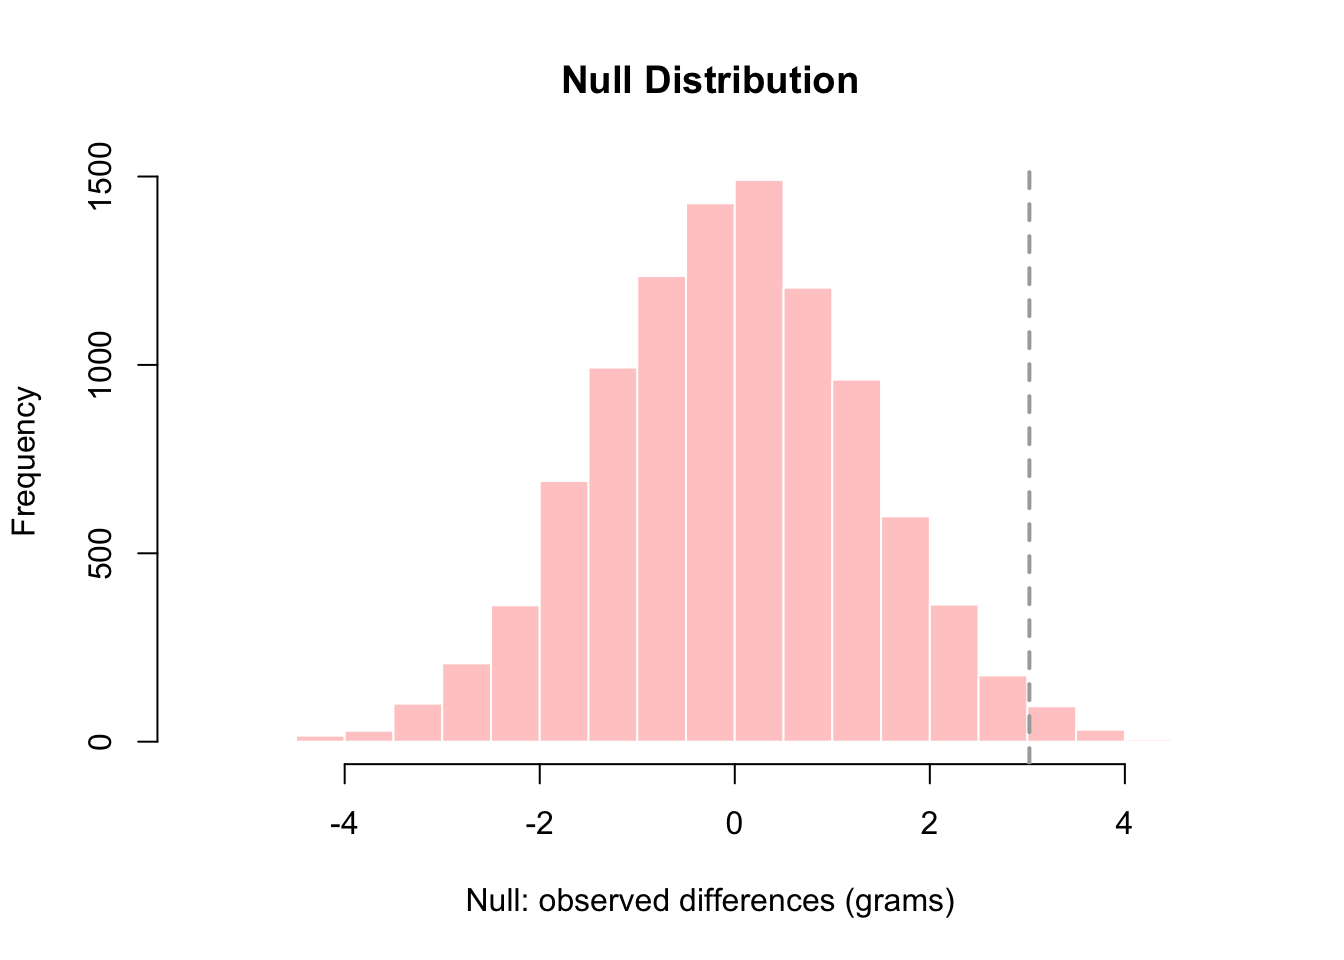
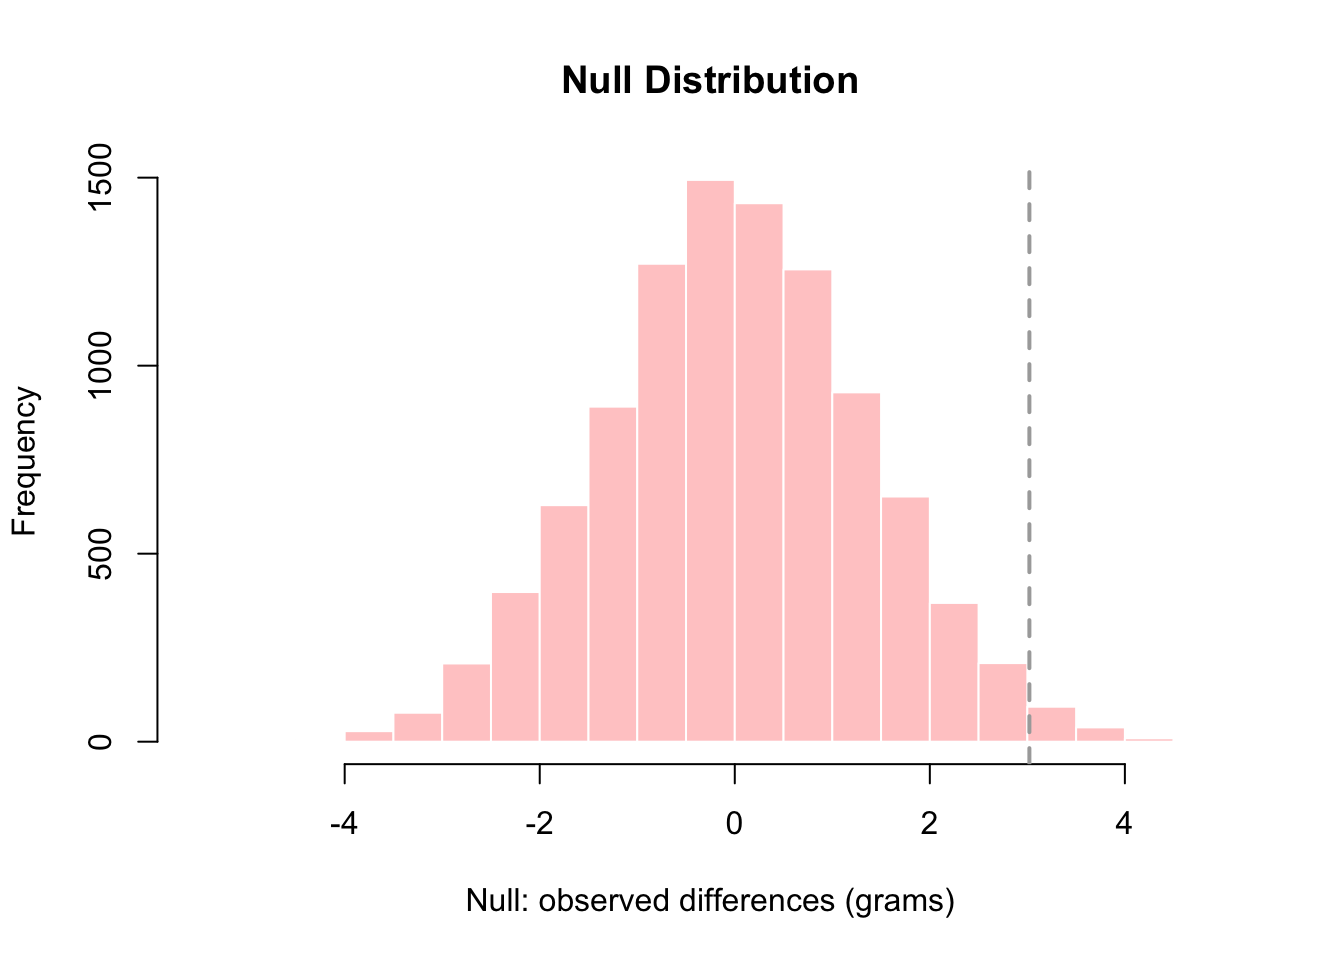
Built site for gh-pages

diff --git a/lec11.html b/lec11.html
@@ -637,17 +637,17 @@ Attaching package: 'dplyr'</code></pre>
 <span id="cb28-2"><a href="#cb28-2" aria-hidden="true" tabindex="-1"></a>control <span class="ot">&lt;-</span> <span class="fu">sample</span>(population, <span class="dv">12</span>)</span>
 <span id="cb28-3"><a href="#cb28-3" aria-hidden="true" tabindex="-1"></a><span class="fu">mean</span>(control)</span></code></pre></div><button title="Copy to Clipboard" class="code-copy-button"><i class="bi"></i></button></div>
 <div class="cell-output cell-output-stdout">
-<pre><code>[1] 23.89083</code></pre>
+<pre><code>[1] 22.9525</code></pre>
 </div>
 <div class="code-copy-outer-scaffold"><div class="sourceCode cell-code" id="cb30"><pre class="sourceCode r code-with-copy"><code class="sourceCode r"><span id="cb30-1"><a href="#cb30-1" aria-hidden="true" tabindex="-1"></a>control <span class="ot">&lt;-</span> <span class="fu">sample</span>(population, <span class="dv">12</span>)</span>
 <span id="cb30-2"><a href="#cb30-2" aria-hidden="true" tabindex="-1"></a><span class="fu">mean</span>(control)</span></code></pre></div><button title="Copy to Clipboard" class="code-copy-button"><i class="bi"></i></button></div>
 <div class="cell-output cell-output-stdout">
-<pre><code>[1] 24.77</code></pre>
+<pre><code>[1] 24.375</code></pre>
 </div>
 <div class="code-copy-outer-scaffold"><div class="sourceCode cell-code" id="cb32"><pre class="sourceCode r code-with-copy"><code class="sourceCode r"><span id="cb32-1"><a href="#cb32-1" aria-hidden="true" tabindex="-1"></a>control <span class="ot">&lt;-</span> <span class="fu">sample</span>(population, <span class="dv">12</span>)</span>
 <span id="cb32-2"><a href="#cb32-2" aria-hidden="true" tabindex="-1"></a><span class="fu">mean</span>(control)</span></code></pre></div><button title="Copy to Clipboard" class="code-copy-button"><i class="bi"></i></button></div>
 <div class="cell-output cell-output-stdout">
-<pre><code>[1] 23.36833</code></pre>
+<pre><code>[1] 23.1725</code></pre>
 </div>
 </div>
 <p>See how the average changes across samples, and that each differs from the average of the ‘total’ population. Therefore, repeating this experiment is useful, as it provides additional information about the distribution of this random variable.</p>
@@ -668,7 +668,7 @@ Attaching package: 'dplyr'</code></pre>
 <span id="cb34-4"><a href="#cb34-4" aria-hidden="true" tabindex="-1"></a>treatment <span class="ot">&lt;-</span> <span class="fu">sample</span>(population, <span class="dv">12</span>)</span>
 <span id="cb34-5"><a href="#cb34-5" aria-hidden="true" tabindex="-1"></a><span class="fu">print</span>(<span class="fu">mean</span>(treatment) <span class="sc">-</span> <span class="fu">mean</span>(control))</span></code></pre></div><button title="Copy to Clipboard" class="code-copy-button"><i class="bi"></i></button></div>
 <div class="cell-output cell-output-stdout">
-<pre><code>[1] -0.7383333</code></pre>
+<pre><code>[1] 0.3941667</code></pre>
 </div>
 <div class="code-copy-outer-scaffold"><div class="sourceCode cell-code" id="cb36"><pre class="sourceCode r code-with-copy"><code class="sourceCode r"><span id="cb36-1"><a href="#cb36-1" aria-hidden="true" tabindex="-1"></a><span class="do">## Now, let's do it 10,000 times (using a 'for-loop')</span></span>
 <span id="cb36-2"><a href="#cb36-2" aria-hidden="true" tabindex="-1"></a>n <span class="ot">&lt;-</span> <span class="dv">10000</span></span>
@@ -683,7 +683,7 @@ Attaching package: 'dplyr'</code></pre>
 <div class="cell">
 <div class="code-copy-outer-scaffold"><div class="sourceCode cell-code" id="cb37"><pre class="sourceCode r code-with-copy"><code class="sourceCode r"><span id="cb37-1"><a href="#cb37-1" aria-hidden="true" tabindex="-1"></a><span class="fu">mean</span>(null <span class="sc">&gt;=</span> obsdiff) <span class="sc">*</span> <span class="dv">100</span></span></code></pre></div><button title="Copy to Clipboard" class="code-copy-button"><i class="bi"></i></button></div>
 <div class="cell-output cell-output-stdout">
-<pre><code>[1] 1.29</code></pre>
+<pre><code>[1] 1.36</code></pre>
 </div>
 </div>
 <div class="cell">
@@ -719,16 +719,16 @@ Attaching package: 'dplyr'</code></pre>
 <div class="cell">
 <div class="code-copy-outer-scaffold"><div class="sourceCode cell-code" id="cb40"><pre class="sourceCode r code-with-copy"><code class="sourceCode r"><span id="cb40-1"><a href="#cb40-1" aria-hidden="true" tabindex="-1"></a><span class="fu">print</span>(<span class="fu">mean</span>(control))</span></code></pre></div><button title="Copy to Clipboard" class="code-copy-button"><i class="bi"></i></button></div>
 <div class="cell-output cell-output-stdout">
-<pre><code>[1] 25.39</code></pre>
+<pre><code>[1] 24.00167</code></pre>
 </div>
 <div class="code-copy-outer-scaffold"><div class="sourceCode cell-code" id="cb42"><pre class="sourceCode r code-with-copy"><code class="sourceCode r"><span id="cb42-1"><a href="#cb42-1" aria-hidden="true" tabindex="-1"></a><span class="fu">print</span>(<span class="fu">mean</span>(treatment))</span></code></pre></div><button title="Copy to Clipboard" class="code-copy-button"><i class="bi"></i></button></div>
 <div class="cell-output cell-output-stdout">
-<pre><code>[1] 23.04667</code></pre>
+<pre><code>[1] 24.4125</code></pre>
 </div>
 <div class="code-copy-outer-scaffold"><div class="sourceCode cell-code" id="cb44"><pre class="sourceCode r code-with-copy"><code class="sourceCode r"><span id="cb44-1"><a href="#cb44-1" aria-hidden="true" tabindex="-1"></a>obsdiff <span class="ot">&lt;-</span> <span class="fu">mean</span>(treatment) <span class="sc">-</span> <span class="fu">mean</span>(control)</span>
 <span id="cb44-2"><a href="#cb44-2" aria-hidden="true" tabindex="-1"></a><span class="fu">print</span>(obsdiff)</span></code></pre></div><button title="Copy to Clipboard" class="code-copy-button"><i class="bi"></i></button></div>
 <div class="cell-output cell-output-stdout">
-<pre><code>[1] -2.343333</code></pre>
+<pre><code>[1] 0.4108333</code></pre>
 </div>
 <div class="code-copy-outer-scaffold"><div class="sourceCode cell-code" id="cb46"><pre class="sourceCode r code-with-copy"><code class="sourceCode r"><span id="cb46-1"><a href="#cb46-1" aria-hidden="true" tabindex="-1"></a>part1<span class="ot">&lt;-</span>(<span class="fu">sd</span>(control)<span class="sc">^</span><span class="dv">2</span>)<span class="sc">/</span><span class="fu">length</span>(control)</span>
 <span id="cb46-2"><a href="#cb46-2" aria-hidden="true" tabindex="-1"></a>part2<span class="ot">&lt;-</span>(<span class="fu">sd</span>(treatment)<span class="sc">^</span><span class="dv">2</span>)<span class="sc">/</span><span class="fu">length</span>(treatment)</span>
@@ -736,19 +736,19 @@ Attaching package: 'dplyr'</code></pre>
 <span id="cb46-4"><a href="#cb46-4" aria-hidden="true" tabindex="-1"></a>tval<span class="ot">&lt;-</span>obsdiff<span class="sc">/</span>se</span>
 <span id="cb46-5"><a href="#cb46-5" aria-hidden="true" tabindex="-1"></a>tval</span></code></pre></div><button title="Copy to Clipboard" class="code-copy-button"><i class="bi"></i></button></div>
 <div class="cell-output cell-output-stdout">
-<pre><code>[1] -1.597852</code></pre>
+<pre><code>[1] 0.2698879</code></pre>
 </div>
 <div class="code-copy-outer-scaffold"><div class="sourceCode cell-code" id="cb48"><pre class="sourceCode r code-with-copy"><code class="sourceCode r"><span id="cb48-1"><a href="#cb48-1" aria-hidden="true" tabindex="-1"></a>df<span class="ot">&lt;-</span>((part1<span class="sc">+</span>part2)<span class="sc">^</span><span class="dv">2</span>)<span class="sc">/</span>(part1<span class="sc">^</span><span class="dv">2</span><span class="sc">/</span>(<span class="fu">length</span>(control)<span class="sc">-</span><span class="dv">1</span>)<span class="sc">+</span>part2<span class="sc">^</span><span class="dv">2</span><span class="sc">/</span>(<span class="fu">length</span>(treatment)<span class="sc">-</span><span class="dv">1</span>))</span>
 <span id="cb48-2"><a href="#cb48-2" aria-hidden="true" tabindex="-1"></a>df</span></code></pre></div><button title="Copy to Clipboard" class="code-copy-button"><i class="bi"></i></button></div>
 <div class="cell-output cell-output-stdout">
-<pre><code>[1] 19.8991</code></pre>
+<pre><code>[1] 20.18207</code></pre>
 </div>
 </div>
 <p>Let’s compute the p-value</p>
 <div class="cell">
 <div class="code-copy-outer-scaffold"><div class="sourceCode cell-code" id="cb50"><pre class="sourceCode r code-with-copy"><code class="sourceCode r"><span id="cb50-1"><a href="#cb50-1" aria-hidden="true" tabindex="-1"></a><span class="dv">2</span><span class="sc">*</span><span class="fu">pt</span>(tval,df)</span></code></pre></div><button title="Copy to Clipboard" class="code-copy-button"><i class="bi"></i></button></div>
 <div class="cell-output cell-output-stdout">
-<pre><code>[1] 0.1258346</code></pre>
+<pre><code>[1] 1.210013</code></pre>
 </div>
 </div>
 <p>We can compare our calculations:</p>
@@ -759,13 +759,13 @@ Attaching package: 'dplyr'</code></pre>
     Welch Two Sample t-test
 
 data:  control and treatment
-t = 1.5979, df = 19.899, p-value = 0.1258
+t = -0.26989, df = 20.182, p-value = 0.79
 alternative hypothesis: true difference in means is not equal to 0
 95 percent confidence interval:
- -0.7168363  5.4035030
+ -3.584329  2.762662
 sample estimates:
 mean of x mean of y 
- 25.39000  23.04667 </code></pre>
+ 24.00167  24.41250 </code></pre>
 </div>
 </div>
 <p>The data is compatible with the hypothesis. We do not reject the null hypothesis of equality in means.</p>

diff --git a/lec8.html b/lec8.html
@@ -540,22 +540,22 @@ window.Quarto = {
 <div class="code-copy-outer-scaffold"><div class="sourceCode cell-code" id="cb1"><pre class="sourceCode r code-with-copy"><code class="sourceCode r"><span id="cb1-1"><a href="#cb1-1" aria-hidden="true" tabindex="-1"></a>x<span class="ot">&lt;-</span><span class="fu">rnorm</span>(<span class="dv">10</span>,<span class="dv">0</span>,<span class="dv">1</span>)</span>
 <span id="cb1-2"><a href="#cb1-2" aria-hidden="true" tabindex="-1"></a><span class="fu">mean</span>(x)</span></code></pre></div><button title="Copy to Clipboard" class="code-copy-button"><i class="bi"></i></button></div>
 <div class="cell-output cell-output-stdout">
-<pre><code>[1] 0.2402792</code></pre>
+<pre><code>[1] 0.04063036</code></pre>
 </div>
 <div class="code-copy-outer-scaffold"><div class="sourceCode cell-code" id="cb3"><pre class="sourceCode r code-with-copy"><code class="sourceCode r"><span id="cb3-1"><a href="#cb3-1" aria-hidden="true" tabindex="-1"></a>x<span class="ot">&lt;-</span><span class="fu">rnorm</span>(<span class="dv">100</span>,<span class="dv">0</span>,<span class="dv">1</span>)</span>
 <span id="cb3-2"><a href="#cb3-2" aria-hidden="true" tabindex="-1"></a><span class="fu">mean</span>(x)</span></code></pre></div><button title="Copy to Clipboard" class="code-copy-button"><i class="bi"></i></button></div>
 <div class="cell-output cell-output-stdout">
-<pre><code>[1] 0.02777156</code></pre>
+<pre><code>[1] 0.0299601</code></pre>
 </div>
 <div class="code-copy-outer-scaffold"><div class="sourceCode cell-code" id="cb5"><pre class="sourceCode r code-with-copy"><code class="sourceCode r"><span id="cb5-1"><a href="#cb5-1" aria-hidden="true" tabindex="-1"></a>x<span class="ot">&lt;-</span><span class="fu">rnorm</span>(<span class="dv">1000</span>,<span class="dv">0</span>,<span class="dv">1</span>)</span>
 <span id="cb5-2"><a href="#cb5-2" aria-hidden="true" tabindex="-1"></a><span class="fu">mean</span>(x)</span></code></pre></div><button title="Copy to Clipboard" class="code-copy-button"><i class="bi"></i></button></div>
 <div class="cell-output cell-output-stdout">
-<pre><code>[1] 0.03206939</code></pre>
+<pre><code>[1] 0.02019941</code></pre>
 </div>
 <div class="code-copy-outer-scaffold"><div class="sourceCode cell-code" id="cb7"><pre class="sourceCode r code-with-copy"><code class="sourceCode r"><span id="cb7-1"><a href="#cb7-1" aria-hidden="true" tabindex="-1"></a>x<span class="ot">&lt;-</span><span class="fu">rnorm</span>(<span class="dv">10000</span>,<span class="dv">0</span>,<span class="dv">1</span>)</span>
 <span id="cb7-2"><a href="#cb7-2" aria-hidden="true" tabindex="-1"></a><span class="fu">mean</span>(x)</span></code></pre></div><button title="Copy to Clipboard" class="code-copy-button"><i class="bi"></i></button></div>
 <div class="cell-output cell-output-stdout">
-<pre><code>[1] -0.0004505544</code></pre>
+<pre><code>[1] -0.00168988</code></pre>
 </div>
 </div>
 <p>Clearly, different samples will give us different sample means. How much do we expect them to vary? We can compute the sample standard deviation of the sample mean (standard error) as follows:</p>
@@ -566,7 +566,7 @@ window.Quarto = {
 <span id="cb9-4"><a href="#cb9-4" aria-hidden="true" tabindex="-1"></a>}</span>
 <span id="cb9-5"><a href="#cb9-5" aria-hidden="true" tabindex="-1"></a><span class="fu">sqrt</span>(<span class="fu">var</span>(vector_means))</span></code></pre></div><button title="Copy to Clipboard" class="code-copy-button"><i class="bi"></i></button></div>
 <div class="cell-output cell-output-stdout">
-<pre><code>[1] 0.3099386</code></pre>
+<pre><code>[1] 0.3191816</code></pre>
 </div>
 <div class="code-copy-outer-scaffold"><div class="sourceCode cell-code" id="cb11"><pre class="sourceCode r code-with-copy"><code class="sourceCode r"><span id="cb11-1"><a href="#cb11-1" aria-hidden="true" tabindex="-1"></a><span class="fu">hist</span>(vector_means)</span></code></pre></div><button title="Copy to Clipboard" class="code-copy-button"><i class="bi"></i></button></div>
 <div class="cell-output-display">
@@ -592,7 +592,7 @@ window.Quarto = {
 <span id="cb14-4"><a href="#cb14-4" aria-hidden="true" tabindex="-1"></a>}</span>
 <span id="cb14-5"><a href="#cb14-5" aria-hidden="true" tabindex="-1"></a><span class="fu">sqrt</span>(<span class="fu">var</span>(vector_means))</span></code></pre></div><button title="Copy to Clipboard" class="code-copy-button"><i class="bi"></i></button></div>
 <div class="cell-output cell-output-stdout">
-<pre><code>[1] 0.3566331</code></pre>
+<pre><code>[1] 0.3359057</code></pre>
 </div>
 <div class="code-copy-outer-scaffold"><div class="sourceCode cell-code" id="cb16"><pre class="sourceCode r code-with-copy"><code class="sourceCode r"><span id="cb16-1"><a href="#cb16-1" aria-hidden="true" tabindex="-1"></a><span class="fu">hist</span>(vector_means)</span></code></pre></div><button title="Copy to Clipboard" class="code-copy-button"><i class="bi"></i></button></div>
 <div class="cell-output-display">

diff --git a/lec5.html b/lec5.html
@@ -577,14 +577,14 @@ Suppose we want to simulate a sequence of 15 fair tosses using R. To get the out
 <div class="cell">
 <div class="code-copy-outer-scaffold"><div class="sourceCode cell-code" id="cb3"><pre class="sourceCode r code-with-copy"><code class="sourceCode r"><span id="cb3-1"><a href="#cb3-1" aria-hidden="true" tabindex="-1"></a><span class="fu">rbinom</span>(<span class="dv">15</span>, <span class="at">prob =</span> <span class="fl">0.5</span>, <span class="at">size =</span> <span class="dv">1</span>)</span></code></pre></div><button title="Copy to Clipboard" class="code-copy-button"><i class="bi"></i></button></div>
 <div class="cell-output cell-output-stdout">
-<pre><code> [1] 0 1 1 1 0 0 1 0 0 0 0 1 0 1 0</code></pre>
+<pre><code> [1] 0 0 1 0 0 1 0 0 1 0 1 1 1 1 0</code></pre>
 </div>
 </div>
 <p>Now observe the outcome when using a biased coin that lands heads 70% of the time:</p>
 <div class="cell">
 <div class="code-copy-outer-scaffold"><div class="sourceCode cell-code" id="cb5"><pre class="sourceCode r code-with-copy"><code class="sourceCode r"><span id="cb5-1"><a href="#cb5-1" aria-hidden="true" tabindex="-1"></a><span class="fu">rbinom</span>(<span class="dv">15</span>, <span class="at">prob =</span> <span class="fl">0.7</span>, <span class="at">size =</span> <span class="dv">1</span>)</span></code></pre></div><button title="Copy to Clipboard" class="code-copy-button"><i class="bi"></i></button></div>
 <div class="cell-output cell-output-stdout">
-<pre><code> [1] 1 1 1 1 1 0 0 1 1 1 0 0 1 1 1</code></pre>
+<pre><code> [1] 1 0 0 0 1 1 1 0 0 1 1 0 1 0 0</code></pre>
 </div>
 </div>
 <p><em>Question.</em> Note that when you call the function above several times, you get different outcomes. Why is that?</p>
@@ -597,7 +597,7 @@ Suppose we want to simulate a sequence of 15 fair tosses using R. To get the out
 <div class="cell">
 <div class="code-copy-outer-scaffold"><div class="sourceCode cell-code" id="cb7"><pre class="sourceCode r code-with-copy"><code class="sourceCode r"><span id="cb7-1"><a href="#cb7-1" aria-hidden="true" tabindex="-1"></a><span class="fu">rbinom</span>(<span class="dv">1</span>, <span class="at">prob =</span> <span class="fl">0.7</span>, <span class="at">size =</span> <span class="dv">15</span>)</span></code></pre></div><button title="Copy to Clipboard" class="code-copy-button"><i class="bi"></i></button></div>
 <div class="cell-output cell-output-stdout">
-<pre><code>[1] 10</code></pre>
+<pre><code>[1] 12</code></pre>
 </div>
 </div>
 <p>The sum of multiple independent (or exchangeable) Bernoulli trials is called the <strong>Binomial distribution</strong> (in the example above, how many heads in 15 flips). That is, the number of successes in 15 Bernoulli trials with a probability of success of 0.7 is called a <strong>binomial</strong> random variable, or a random variable that follows the B(15, 0.7) distribution. We can generate binomial samples in R as follows:</p>

diff --git a/lec6.html b/lec6.html
@@ -542,14 +542,14 @@ Suppose we want to simulate a sequence of 15 fair tosses using R. To get the out
 <div class="cell">
 <div class="code-copy-outer-scaffold"><div class="sourceCode cell-code" id="cb3"><pre class="sourceCode r code-with-copy"><code class="sourceCode r"><span id="cb3-1"><a href="#cb3-1" aria-hidden="true" tabindex="-1"></a><span class="fu">rbinom</span>(<span class="dv">15</span>, <span class="at">prob =</span> <span class="fl">0.5</span>, <span class="at">size =</span> <span class="dv">1</span>)</span></code></pre></div><button title="Copy to Clipboard" class="code-copy-button"><i class="bi"></i></button></div>
 <div class="cell-output cell-output-stdout">
-<pre><code> [1] 1 1 1 0 1 1 1 1 0 1 0 1 1 1 1</code></pre>
+<pre><code> [1] 1 0 0 0 1 0 0 1 0 1 1 1 0 0 0</code></pre>
 </div>
 </div>
 <p>Now observe the outcome when using a biased coin that lands heads 70% of the time:</p>
 <div class="cell">
 <div class="code-copy-outer-scaffold"><div class="sourceCode cell-code" id="cb5"><pre class="sourceCode r code-with-copy"><code class="sourceCode r"><span id="cb5-1"><a href="#cb5-1" aria-hidden="true" tabindex="-1"></a><span class="fu">rbinom</span>(<span class="dv">15</span>, <span class="at">prob =</span> <span class="fl">0.7</span>, <span class="at">size =</span> <span class="dv">1</span>)</span></code></pre></div><button title="Copy to Clipboard" class="code-copy-button"><i class="bi"></i></button></div>
 <div class="cell-output cell-output-stdout">
-<pre><code> [1] 1 1 1 0 1 1 0 1 0 1 1 0 1 1 1</code></pre>
+<pre><code> [1] 0 1 0 1 0 1 1 0 1 1 1 1 1 1 1</code></pre>
 </div>
 </div>
 <p><em>Question.</em> Note that when you call the function above several times, you get different outcomes. Why is that?</p>
@@ -562,7 +562,7 @@ Suppose we want to simulate a sequence of 15 fair tosses using R. To get the out
 <div class="cell">
 <div class="code-copy-outer-scaffold"><div class="sourceCode cell-code" id="cb7"><pre class="sourceCode r code-with-copy"><code class="sourceCode r"><span id="cb7-1"><a href="#cb7-1" aria-hidden="true" tabindex="-1"></a><span class="fu">rbinom</span>(<span class="dv">1</span>, <span class="at">prob =</span> <span class="fl">0.7</span>, <span class="at">size =</span> <span class="dv">15</span>)</span></code></pre></div><button title="Copy to Clipboard" class="code-copy-button"><i class="bi"></i></button></div>
 <div class="cell-output cell-output-stdout">
-<pre><code>[1] 9</code></pre>
+<pre><code>[1] 13</code></pre>
 </div>
 </div>
 <p>The sum of multiple independent (or exchangeable) Bernoulli trials is called the <strong>Binomial distribution</strong> (in the example above, how many heads in 15 flips). That is, the number of successes in 15 Bernoulli trials with a probability of success of 0.7 is called a <strong>binomial</strong> random variable, or a random variable that follows the B(15, 0.7) distribution. We can generate binomial samples in R as follows:</p>

diff --git a/Week2_section.html b/Week2_section.html
@@ -642,11 +642,11 @@ window.Quarto = {
 <div class="code-copy-outer-scaffold"><div class="sourceCode cell-code" id="cb16"><pre class="sourceCode r code-with-copy"><code class="sourceCode r"><span id="cb16-1"><a href="#cb16-1" aria-hidden="true" tabindex="-1"></a><span class="co"># Scenario 1:</span></span>
 <span id="cb16-2"><a href="#cb16-2" aria-hidden="true" tabindex="-1"></a><span class="fu">sample</span>(<span class="fu">c</span>(<span class="dv">0</span>, <span class="dv">1</span>), <span class="at">size =</span> <span class="dv">10</span>, <span class="at">replace =</span> <span class="cn">TRUE</span>)</span></code></pre></div><button title="Copy to Clipboard" class="code-copy-button"><i class="bi"></i></button></div>
 <div class="cell-output cell-output-stdout">
-<pre><code> [1] 1 1 0 1 1 1 0 1 1 1</code></pre>
+<pre><code> [1] 1 1 0 0 1 1 1 0 0 0</code></pre>
 </div>
 <div class="code-copy-outer-scaffold"><div class="sourceCode cell-code" id="cb18"><pre class="sourceCode r code-with-copy"><code class="sourceCode r"><span id="cb18-1"><a href="#cb18-1" aria-hidden="true" tabindex="-1"></a><span class="fu">sample</span>(<span class="fu">c</span>(<span class="dv">0</span>, <span class="dv">1</span>), <span class="at">size =</span> <span class="dv">10</span>, <span class="at">replace =</span> <span class="cn">TRUE</span>)</span></code></pre></div><button title="Copy to Clipboard" class="code-copy-button"><i class="bi"></i></button></div>
 <div class="cell-output cell-output-stdout">
-<pre><code> [1] 1 1 1 0 1 1 1 1 1 0</code></pre>
+<pre><code> [1] 1 1 0 1 1 1 0 1 1 1</code></pre>
 </div>
 <div class="code-copy-outer-scaffold"><div class="sourceCode cell-code" id="cb20"><pre class="sourceCode r code-with-copy"><code class="sourceCode r"><span id="cb20-1"><a href="#cb20-1" aria-hidden="true" tabindex="-1"></a><span class="co"># Scenario 2:</span></span>
 <span id="cb20-2"><a href="#cb20-2" aria-hidden="true" tabindex="-1"></a><span class="fu">set.seed</span>(<span class="dv">123</span>)</span>

diff --git a/Week3_section.html b/Week3_section.html
@@ -532,11 +532,11 @@ window.Quarto = {
 <div class="code-copy-outer-scaffold"><div class="sourceCode cell-code" id="cb4"><pre class="sourceCode r code-with-copy"><code class="sourceCode r"><span id="cb4-1"><a href="#cb4-1" aria-hidden="true" tabindex="-1"></a><span class="co"># Scenario 1:</span></span>
 <span id="cb4-2"><a href="#cb4-2" aria-hidden="true" tabindex="-1"></a><span class="fu">sample</span>(<span class="fu">c</span>(<span class="dv">1</span>, <span class="dv">0</span>), <span class="at">size =</span> <span class="dv">10</span>, <span class="at">replace =</span> <span class="cn">TRUE</span>)</span></code></pre></div><button title="Copy to Clipboard" class="code-copy-button"><i class="bi"></i></button></div>
 <div class="cell-output cell-output-stdout">
-<pre><code> [1] 0 0 0 0 1 1 1 0 0 1</code></pre>
+<pre><code> [1] 0 1 1 0 0 1 1 0 0 1</code></pre>
 </div>
 <div class="code-copy-outer-scaffold"><div class="sourceCode cell-code" id="cb6"><pre class="sourceCode r code-with-copy"><code class="sourceCode r"><span id="cb6-1"><a href="#cb6-1" aria-hidden="true" tabindex="-1"></a><span class="fu">sample</span>(<span class="fu">c</span>(<span class="dv">1</span>, <span class="dv">0</span>), <span class="at">size =</span> <span class="dv">10</span>, <span class="at">replace =</span> <span class="cn">TRUE</span>)</span></code></pre></div><button title="Copy to Clipboard" class="code-copy-button"><i class="bi"></i></button></div>
 <div class="cell-output cell-output-stdout">
-<pre><code> [1] 0 1 1 1 0 0 0 0 1 1</code></pre>
+<pre><code> [1] 1 0 0 0 1 1 0 1 1 0</code></pre>
 </div>
 <div class="code-copy-outer-scaffold"><div class="sourceCode cell-code" id="cb8"><pre class="sourceCode r code-with-copy"><code class="sourceCode r"><span id="cb8-1"><a href="#cb8-1" aria-hidden="true" tabindex="-1"></a><span class="co"># Scenario 2:</span></span>
 <span id="cb8-2"><a href="#cb8-2" aria-hidden="true" tabindex="-1"></a><span class="fu">set.seed</span>(<span class="dv">123</span>)</span>

diff --git a/lec4.html b/lec4.html
@@ -506,8 +506,8 @@ window.Quarto = {
 </div>
 <div class="code-copy-outer-scaffold"><div class="sourceCode cell-code" id="cb4"><pre class="sourceCode r code-with-copy"><code class="sourceCode r"><span id="cb4-1"><a href="#cb4-1" aria-hidden="true" tabindex="-1"></a><span class="fu">sample</span>(x,<span class="dv">10</span>)</span></code></pre></div><button title="Copy to Clipboard" class="code-copy-button"><i class="bi"></i></button></div>
 <div class="cell-output cell-output-stdout">
-<pre><code> [1] 71.99783 68.83427 64.61683 68.15907 62.36030 72.20218 68.45161 67.54999
- [9] 68.25066 70.98400</code></pre>
+<pre><code> [1] 66.93359 63.85157 66.30354 69.89852 64.55987 67.29162 68.07787 70.05990
+ [9] 69.99870 65.99384</code></pre>
 </div>
 </div>
 <p>Another, more compact and descriptive way to represent the data is by using a <strong>histogram</strong>. Histograms show the proportion of values within intervals, <span class="math inline">\((a, b)\)</span>. In the previous example, plotting the heights as bars is more illustrative because we are usually more interested in intervals, such as the percentage of people whose heights fall between 70 and 71 inches. Histograms are also useful for describing different families of distributions. Here is the histogram of the height data:</p>
